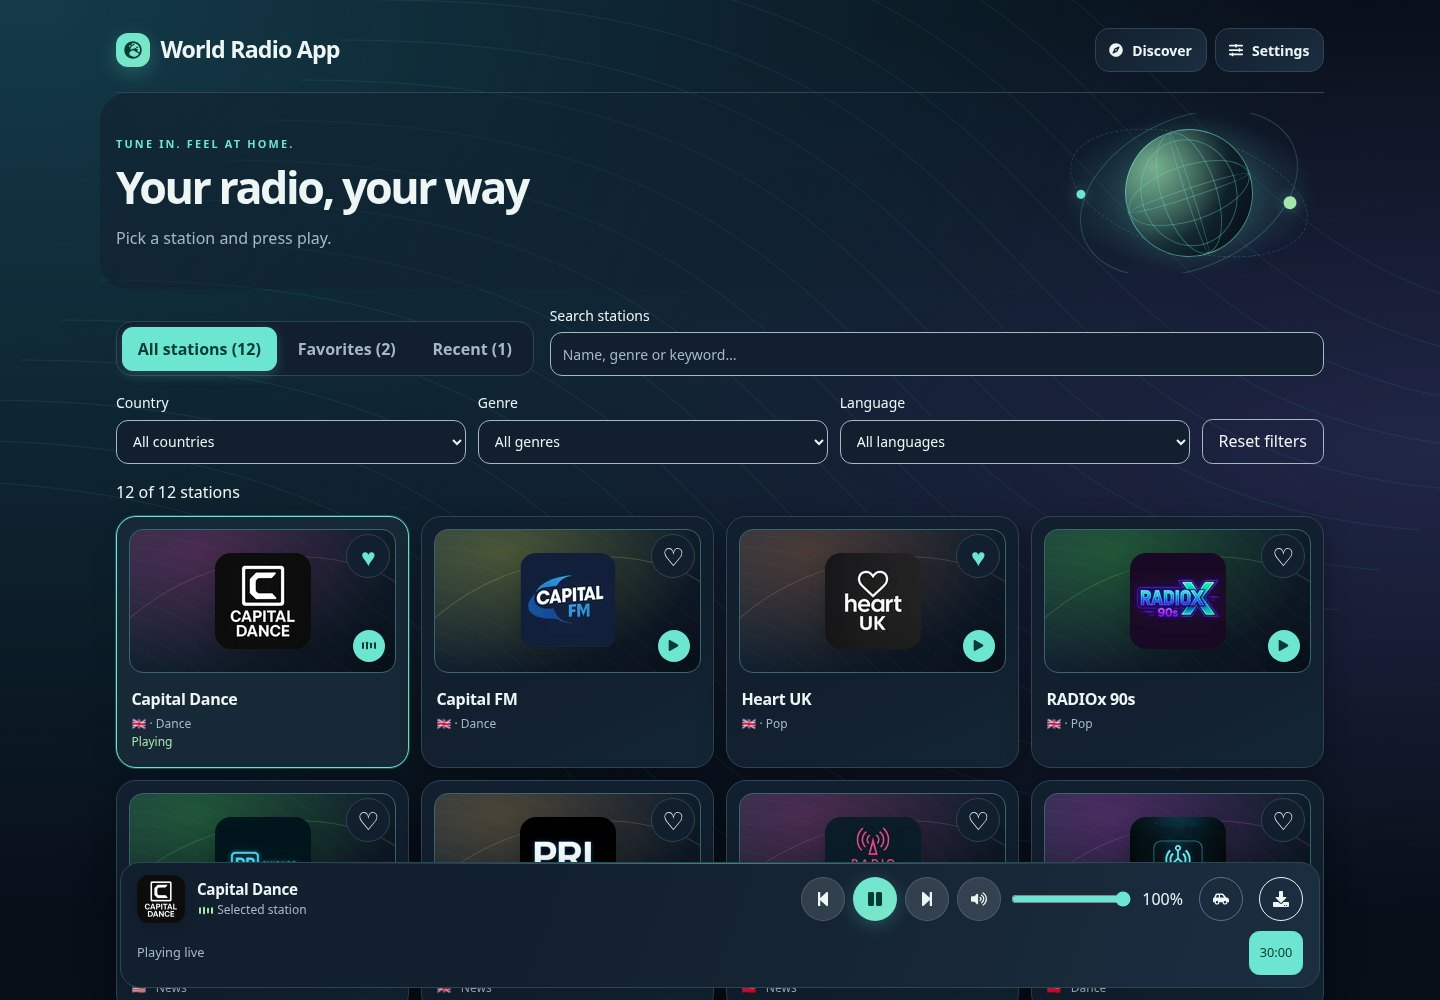
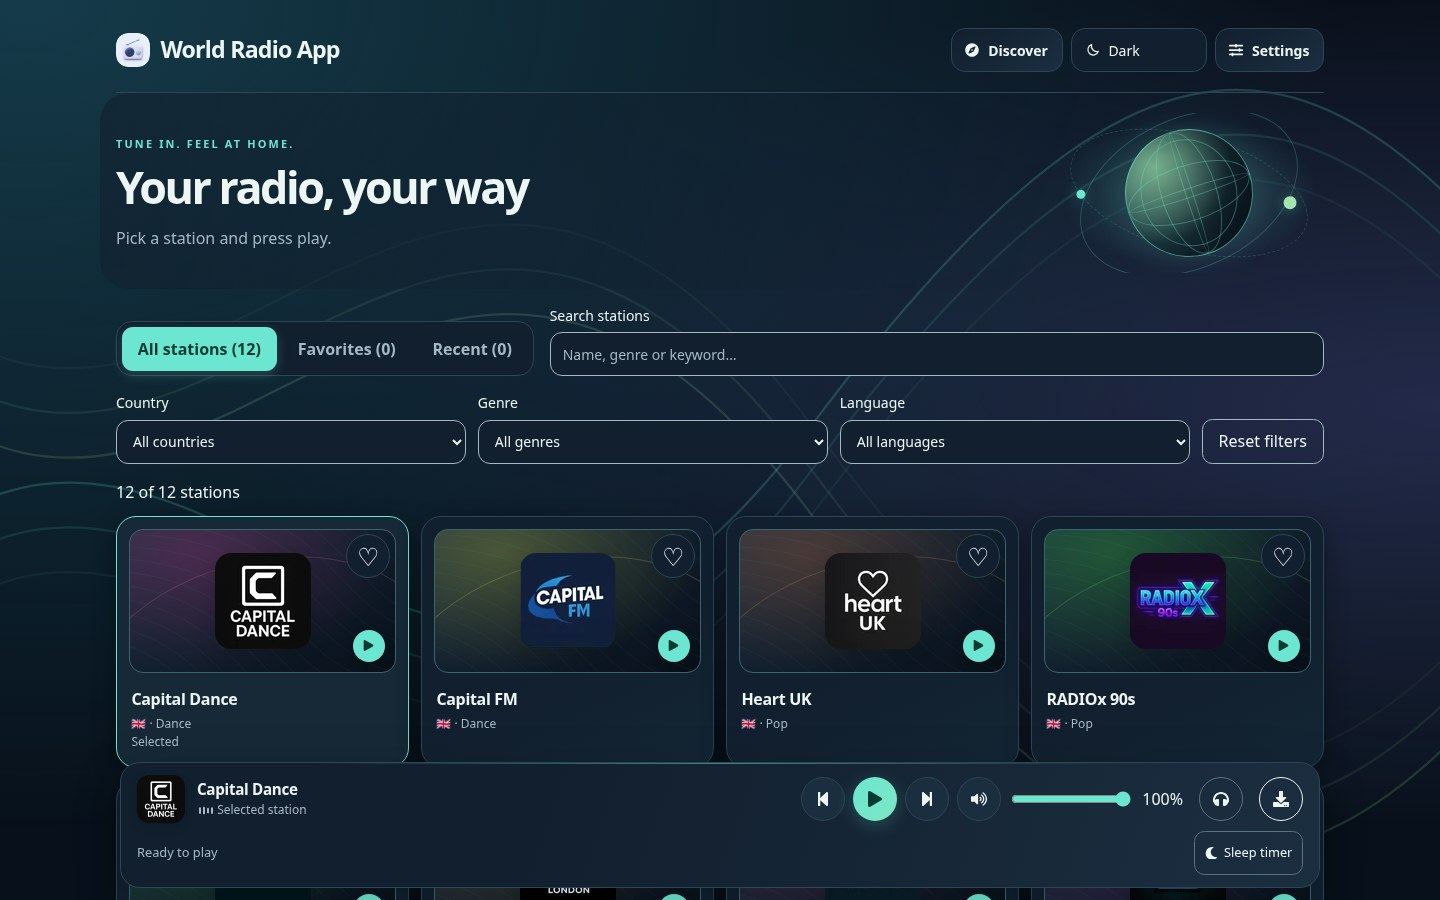
docs: explain five designs and refresh app screenshots

diff --git a/README.md b/README.md
@@ -31,14 +31,60 @@ React and Vite. No account required.
   and Media Session controls where supported by the browser and OS.
 - **Take your library with you.** Export added stations, favorites, history and
   preferences to JSON, then preview and merge a backup on another device.
-  Transfers are manual; each device keeps its own saved data.
-- **Choose your appearance and language.** Light, dark and system themes,
+  Transfers are manual; each device keeps its own saved data. Windows in the
+  same browser share library changes; Web Locks serialize their writes where
+  supported. Older browsers still merge sequential edits.
+- **Choose a complete design.** Keep Classic or switch to Orbit, Pulse, Analog
+  or Signal in Settings. Each has its own layout, shapes, artwork and motion,
+  while the same radio keeps playing.
+- **Choose your appearance and language.** Light, dark and system themes work
+  independently with all five designs, alongside
   reduced-motion support and eight interface languages: English, Polish, German,
   Spanish, French, Portuguese, Italian and Ukrainian. Language changes preserve
   playback and the active timer.
 - **Install it as a PWA.** Open the saved library and interface offline after
   setup, including all eight language packs. Live radio and new station searches
   need an internet connection. Updates wait for open app windows to close.
+
+## Five designs, one player
+
+Open **Settings → App design**. Classic stays the default for existing users.
+Your choice is saved in this browser and can travel with an exported backup
+when you opt into importing settings. Switching keeps the current audio source,
+Sleep Timer, favorites and history.
+
+| Design      | Visual direction                                                    |
+| ----------- | ------------------------------------------------------------------- |
+| **Classic** | The familiar studio and compact mobile list                         |
+| **Orbit**   | Spatial navigation rail, orbital scene, round artwork and pill dock |
+| **Pulse**   | Organic artwork, asymmetric station tiles and bold typography       |
+| **Analog**  | Physical receiver, preset display, mechanical controls and textures |
+| **Signal**  | Editorial grid, numbered rows, hard borders and stepped motion      |
+
+All five support **System / Light / Dark**. Animation preferences and the OS
+reduced-motion setting remain available. Short screens prioritize station
+controls over decorative artwork. See [design behavior and architecture](docs/app-designs.md).
+
+<details>
+<summary>See the four additional designs on mobile</summary>
+
+<table>
+  <tr><td align="center"><strong>Orbit · light</strong></td><td align="center"><strong>Pulse · dark</strong></td></tr>
+  <tr>
+    <td align="center"><img src="docs/media/style-orbit-light.jpg" width="250" alt="Orbit with spatial artwork, round station rows and a pill-shaped player" /></td>
+    <td align="center"><img src="docs/media/style-pulse-dark.jpg" width="250" alt="Pulse with purple organic artwork, asymmetric tiles and rounded navigation" /></td>
+  </tr>
+  <tr><td align="center"><strong>Analog · light</strong></td><td align="center"><strong>Signal · dark</strong></td></tr>
+  <tr>
+    <td align="center"><img src="docs/media/style-analog-light.jpg" width="250" alt="Analog with a receiver cabinet, preset display and mechanical station buttons" /></td>
+    <td align="center"><img src="docs/media/style-signal-dark.jpg" width="250" alt="Signal with a lime accent, editorial typography and numbered station rows" /></td>
+  </tr>
+</table>
+
+[Orbit dark](docs/media/style-orbit-dark.jpg) · [Pulse light](docs/media/style-pulse-light.jpg) ·
+[Analog dark](docs/media/style-analog-dark.jpg) · [Signal light](docs/media/style-signal-light.jpg)
+
+</details>
 
 ## A closer look
 
@@ -48,7 +94,7 @@ React and Vite. No account required.
     <td align="center"><strong>Full player · dark</strong></td>
   </tr>
   <tr>
-    <td align="center"><img src="docs/media/mobile-light.jpg" width="280" alt="Mobile light theme with compact station rows, favorites, search and an active sleep timer" /></td>
+    <td align="center"><img src="docs/media/mobile-light.jpg" width="280" alt="Classic light theme with compact station rows, favorites, search and the persistent player" /></td>
     <td align="center"><img src="docs/media/mobile-player-dark.jpg" width="280" alt="Mobile dark full-player view with station artwork, playback controls, volume and a sleep timer" /></td>
   </tr>
 </table>
@@ -117,12 +163,18 @@ npm run check
 
 This runs lint, formatting, Jest, directory/stream/worker tests, a production
 build, asset checks and the **128,000-byte gzip budget for initial JavaScript**.
-Additional languages and the HLS fallback stay outside the initial bundle.
+Additional designs, language packs, optional dialogs and the HLS fallback load
+on demand and stay outside the initial bundle. Static control styling lives in
+CSS rather than the playback code.
 
 CI also checks the build and current PR preview in Chromium: real audio decoding,
 mobile layouts, keyboard access, contrast, reduced motion, backup/import,
 shared-player continuity and offline updates. The language suite covers **48
 combinations** of eight languages, two themes and three viewport widths.
+The design suite adds **150 home layouts and 200 route layouts** across all five
+designs, PL/EN and three appearance modes, including 320px/390px phones, landscape,
+tablet and desktop. It verifies real audio continuity, motion controls, offline
+switching, failed downloads and concurrent library edits.
 Screenshots and reports are available in the workflow artifacts.
 
 Physical-device playback and system controls depend on the browser, OS and
@@ -135,7 +187,8 @@ Timer can be delayed if the browser suspends the app.
 ```text
 src/
   components/       Shared controls, player, settings, backup and library UI
-  context/          Playback, stations, favorites, history, language, theme and PWA
+  context/          Playback, library, language, design, theme and PWA state
+  designs/          Deferred layouts, palettes, navigation, artwork and picker
   i18n/             Interface dictionaries and on-demand language packs
   lib/              Audio, storage, station identity, backup and browser helpers
   pages/            Catalog, discovery, library, shared station and full player
